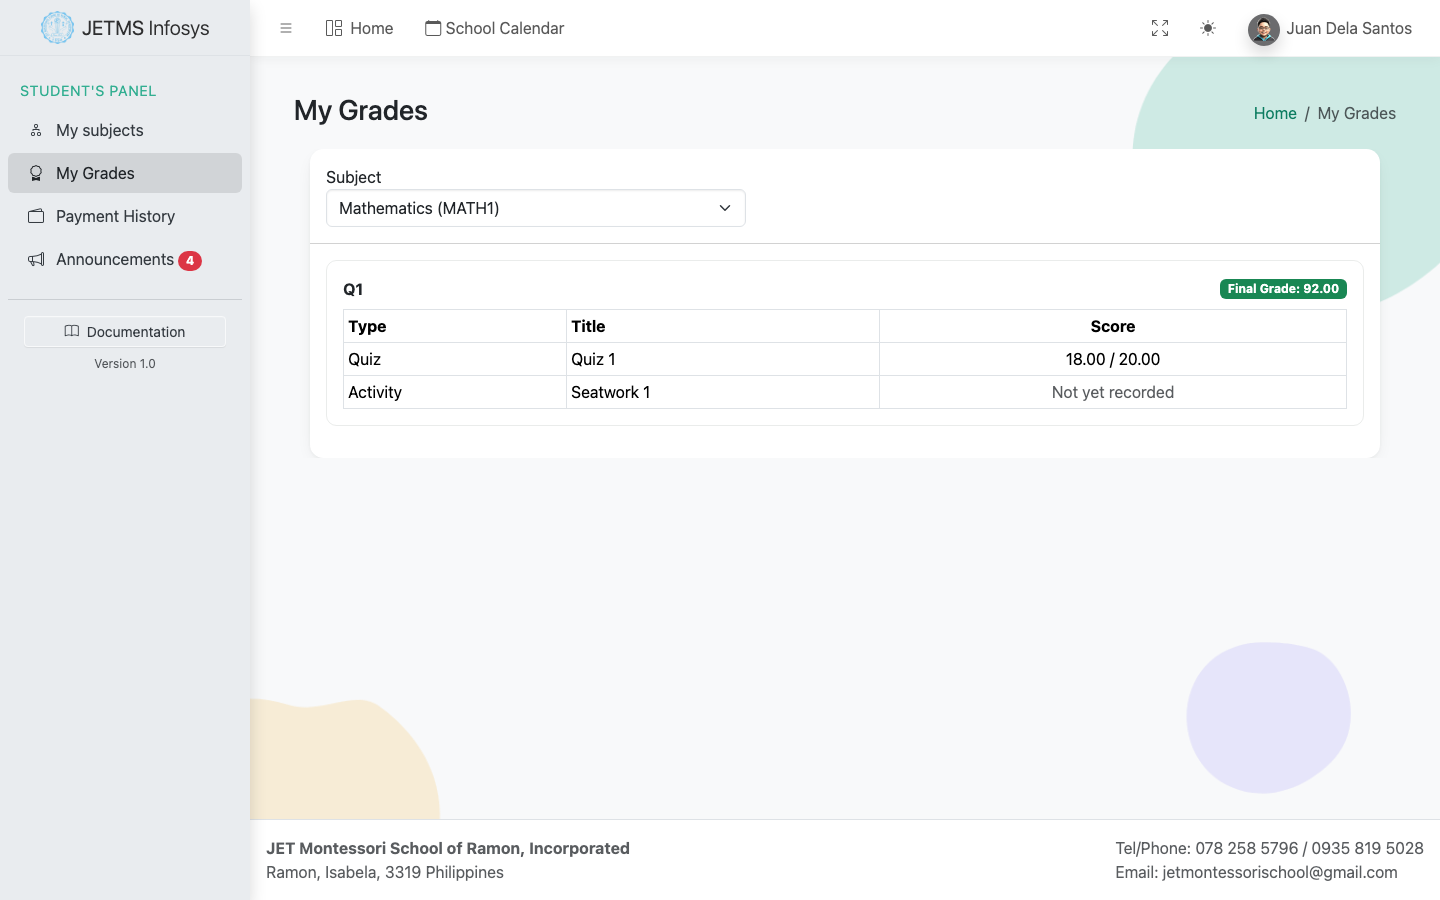
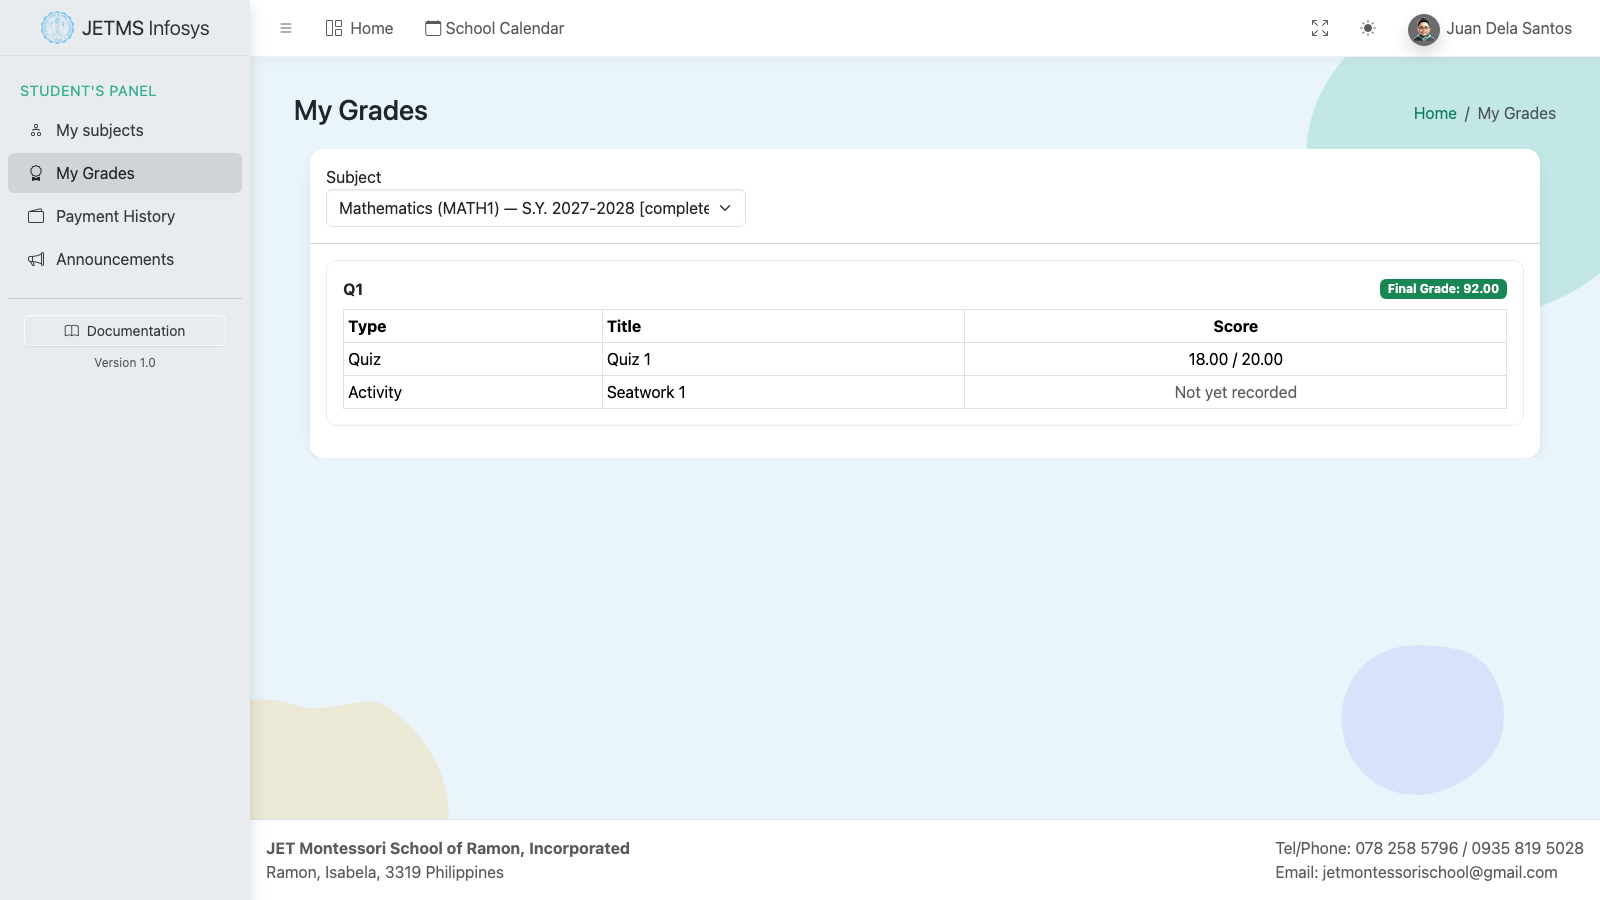
Final Test

diff --git a/docs/introduction.html b/docs/introduction.html
@@ -415,6 +415,7 @@
     <ul>
       <li>Cancel and the cell reverts; confirm with a reason and it saves, with the old value, new value, reason, and editor all logged internally.</li>
       <li>Removing a component (the × on its chip) hides it and its scores without deleting the underlying data — a safety net, not a hard delete.</li>
+      <li>The roster includes every student who ever took this class, not just currently-enrolled ones — a small <strong>Completed</strong>/<strong>Dropped</strong>/<strong>Transferred</strong> badge next to a name means that student's own enrollment has since ended, but their scores for this class stay visible and editable here.</li>
     </ul>
 
     <h2 id="announcements-teacher">Announcements</h2>
@@ -426,16 +427,16 @@
     <h2 id="my-subjects">My Subjects</h2>
     <p><strong>Where:</strong> left sidebar → <strong>My subjects</strong>.</p>
     <img class="doc-shot" src="manual/student_my_subjects.png" alt="My Subjects">
-    <p>One card per subject the student is currently enrolled in. Each shows the section, school year, and either the assigned teacher's name or <strong>"Teacher not yet assigned"</strong> if Admin hasn't set up that Assignment yet. Subjects with a teacher get a <strong>View Grades</strong> shortcut straight into the next screen, pre-selected.</p>
+    <p>One card per subject the student has ever been enrolled in — <strong>not just the current year</strong>. Each shows a status badge (green <strong>Current</strong> for the active enrollment, or <strong>Completed</strong> / <strong>Dropped</strong> / <strong>Transferred</strong> for past ones), the section, school year, and either the assigned teacher's name or <strong>"Teacher not yet assigned"</strong> if Admin hasn't set up that Assignment yet. Subjects with a teacher get a <strong>View Grades</strong> shortcut straight into the next screen, pre-selected. Current-year subjects list first, then past years newest-first.</p>
 
     <h2 id="my-grades">My Grades</h2>
     <p><strong>Where:</strong> left sidebar → <strong>My Grades</strong>.</p>
     <img class="doc-shot" src="manual/student_my_grades.png" alt="My Grades">
     <ol>
-      <li>Pick a subject from the dropdown (only subjects with an assigned teacher/class appear here).</li>
+      <li>Pick a subject from the dropdown (only subjects with an assigned teacher/class appear here). Since a student can have the same subject across multiple years, each option is labeled with its school year and status, e.g. "Mathematics (MATH1) — S.Y. 2027-2028 [completed]".</li>
       <li>One panel per quarter that has any activity — a <strong>Final Grade</strong> badge (green with the number once released, gray "Not yet released" until then), and a table of every quiz/activity/exam for that quarter with its score, or "Not yet recorded" if the teacher hasn't graded it yet.</li>
     </ol>
-    <div class="doc-note">Everything here is read-only and scoped to the logged-in student's own account — verified that a crafted request for someone else's class is rejected server-side, not just hidden in the UI.</div>
+    <div class="doc-note">Everything here is read-only and scoped to the logged-in student's own account — verified that a crafted request for someone else's class is rejected server-side, not just hidden in the UI. <strong>Grades from a completed, dropped, or transferred school year stay fully accessible</strong> — activating a new school year does not lock a student out of their own history. The Teacher's gradebook roster works the same way: it still shows students from years the class was actually taught, each tagged with their status, instead of going empty once that year ends.</div>
 
     <h2 id="payment-history">Payment History</h2>
     <p><strong>Where:</strong> left sidebar → <strong>Payment History</strong>.</p>

diff --git a/jsfile/student_subjects.js b/jsfile/student_subjects.js
@@ -15,6 +15,13 @@ $(document).ready(function () {
                 return;
             }
 
+            const statusBadge = {
+                enrolled: '<span class="badge bg-success">Current</span>',
+                dropped: '<span class="badge bg-danger">Dropped</span>',
+                transferred: '<span class="badge bg-warning">Transferred</span>',
+                completed: '<span class="badge bg-secondary">Completed</span>'
+            };
+
             let html = '';
             subjects.forEach(function (s) {
                 const teacherLine = s.teacher_name
@@ -27,10 +34,15 @@ $(document).ready(function () {
                        </button>`
                     : '';
 
+                const badge = statusBadge[s.enrollment_status] || '';
+
                 html += `
                     <div class="col-md-4">
                         <div class="subpanel p-3 h-100">
-                            <div class="fw-bold">${s.subject_name}${s.subject_code ? ` <span class="text-muted small">(${s.subject_code})</span>` : ''}</div>
+                            <div class="d-flex justify-content-between align-items-start">
+                                <div class="fw-bold">${s.subject_name}${s.subject_code ? ` <span class="text-muted small">(${s.subject_code})</span>` : ''}</div>
+                                ${badge}
+                            </div>
                             <div class="text-muted small">${s.section_name} &middot; S.Y. ${s.schoolyear_name}</div>
                             ${teacherLine}
                             ${gradesBtn}

diff --git a/jsfile/teacher_classes.js b/jsfile/teacher_classes.js
@@ -113,9 +113,16 @@ $(document).ready(function () {
             return;
         }
 
+        const statusBadge = {
+            dropped: '<span class="badge bg-danger ms-1" style="font-size:0.65rem;">Dropped</span>',
+            transferred: '<span class="badge bg-warning ms-1" style="font-size:0.65rem;">Transferred</span>',
+            completed: '<span class="badge bg-secondary ms-1" style="font-size:0.65rem;">Completed</span>'
+        };
+
         let body = '';
         roster.forEach(function (student) {
-            body += `<tr><td>${student.last_name}, ${student.first_name}</td>`;
+            const badge = statusBadge[student.enrollment_status] || '';
+            body += `<tr><td>${student.last_name}, ${student.first_name}${badge}</td>`;
             components.forEach(function (c) {
                 const val = student.scores && student.scores[c.component_id] !== null && student.scores[c.component_id] !== undefined ? student.scores[c.component_id] : '';
                 body += `<td><input type="number" class="form-control form-control-sm gradebook-score-input" style="width:80px;" min="0" max="${c.max_score}" step="0.01"

diff --git a/jsfile/student_grades.js b/jsfile/student_grades.js
@@ -73,7 +73,8 @@ $(document).ready(function () {
             const subjects = (res.data || []).filter(function (s) { return s.class_id; });
             let options = '<option value="">-- Select a Subject --</option>';
             subjects.forEach(function (s) {
-                options += `<option value="${s.class_id}">${s.subject_name}${s.subject_code ? ' (' + s.subject_code + ')' : ''}</option>`;
+                const label = `${s.subject_name}${s.subject_code ? ' (' + s.subject_code + ')' : ''} — S.Y. ${s.schoolyear_name}${s.enrollment_status !== 'enrolled' ? ' [' + s.enrollment_status + ']' : ''}`;
+                options += `<option value="${s.class_id}">${label}</option>`;
             });
             $('#grades_subject_select').html(options);
 

diff --git a/config/grading.php b/config/grading.php
@@ -135,12 +135,12 @@ switch ($action) {
         }
 
         $rosterStmt = mysqli_prepare($conn, "
-            SELECT s.student_id, s.lrn, s.first_name, s.last_name
+            SELECT s.student_id, s.lrn, s.first_name, s.last_name, e.status AS enrollment_status
             FROM tbl_enrollment e
             JOIN tbl_student s ON s.student_id = e.student_id
             JOIN tbl_enrollment_subject es ON es.enrollment_id = e.enrollment_id
-            WHERE e.section_id = ? AND e.schoolyear_id = ? AND e.status = 'enrolled' AND es.subject_id = ?
-            ORDER BY s.last_name ASC, s.first_name ASC
+            WHERE e.section_id = ? AND e.schoolyear_id = ? AND es.subject_id = ?
+            ORDER BY FIELD(e.status, 'enrolled', 'dropped', 'transferred', 'completed'), s.last_name ASC, s.first_name ASC
         ");
         mysqli_stmt_bind_param($rosterStmt, "iii", $classRow['section_id'], $classRow['schoolyear_id'], $classRow['subject_id']);
         mysqli_stmt_execute($rosterStmt);
@@ -332,7 +332,10 @@ switch ($action) {
     }
 
     // =======================
-    // STUDENT_SUBJECTS (session-scoped — this student's current subjects + assigned teacher)
+    // STUDENT_SUBJECTS (session-scoped — every subject this student has ever
+    // had, across every enrollment/school year, not just the currently
+    // 'enrolled' one — otherwise a completed/dropped year's subjects and
+    // grades become permanently unreachable once that year ends)
     // =======================
     case 'student_subjects': {
         if (!isset($_SESSION['auth']) || $_SESSION['auth']['role'] !== 'student') {
@@ -343,13 +346,13 @@ switch ($action) {
 
         $stmt = mysqli_prepare($conn, "
             SELECT es.subject_id, es.subject_name, es.subject_code,
-                   e.section_name, e.schoolyear_name,
+                   e.section_name, e.schoolyear_name, e.status AS enrollment_status,
                    c.class_id, c.teacher_name
             FROM tbl_enrollment e
             JOIN tbl_enrollment_subject es ON es.enrollment_id = e.enrollment_id
             LEFT JOIN tbl_class c ON c.section_id = e.section_id AND c.schoolyear_id = e.schoolyear_id AND c.subject_id = es.subject_id AND c.class_remarks = 1
-            WHERE e.student_id = ? AND e.status = 'enrolled'
-            ORDER BY es.subject_name ASC
+            WHERE e.student_id = ?
+            ORDER BY FIELD(e.status, 'enrolled', 'dropped', 'transferred', 'completed'), e.schoolyear_name DESC, es.subject_name ASC
         ");
         mysqli_stmt_bind_param($stmt, "i", $student_id);
         mysqli_stmt_execute($stmt);
@@ -376,12 +379,14 @@ switch ($action) {
         $student_id = $_SESSION['auth']['id'];
         $class_id = isset($_POST['class_id']) ? (int) $_POST['class_id'] : 0;
 
-        // Confirm this class actually corresponds to one of the student's own enrolled subjects
+        // Confirm this class corresponds to one of the student's own subjects —
+        // any enrollment status counts (not just 'enrolled'), so grades from a
+        // completed/dropped/transferred school year stay reachable
         $ownStmt = mysqli_prepare($conn, "
             SELECT c.class_id FROM tbl_class c
             JOIN tbl_enrollment e ON e.section_id = c.section_id AND e.schoolyear_id = c.schoolyear_id
             JOIN tbl_enrollment_subject es ON es.enrollment_id = e.enrollment_id AND es.subject_id = c.subject_id
-            WHERE c.class_id = ? AND e.student_id = ? AND e.status = 'enrolled'
+            WHERE c.class_id = ? AND e.student_id = ?
             LIMIT 1
         ");
         mysqli_stmt_bind_param($ownStmt, "ii", $class_id, $student_id);

diff --git a/config/assignment.php b/config/assignment.php
@@ -234,12 +234,12 @@ switch ($action) {
         }
 
         $stmt = mysqli_prepare($conn, "
-            SELECT s.student_id, s.lrn, s.first_name, s.last_name, e.enrollment_id
+            SELECT s.student_id, s.lrn, s.first_name, s.last_name, e.enrollment_id, e.status AS enrollment_status
             FROM tbl_enrollment e
             JOIN tbl_student s ON s.student_id = e.student_id
             JOIN tbl_enrollment_subject es ON es.enrollment_id = e.enrollment_id
-            WHERE e.section_id = ? AND e.schoolyear_id = ? AND e.status = 'enrolled' AND es.subject_id = ?
-            ORDER BY s.last_name ASC, s.first_name ASC
+            WHERE e.section_id = ? AND e.schoolyear_id = ? AND es.subject_id = ?
+            ORDER BY FIELD(e.status, 'enrolled', 'dropped', 'transferred', 'completed'), s.last_name ASC, s.first_name ASC
         ");
         mysqli_stmt_bind_param($stmt, "iii", $classRow['section_id'], $classRow['schoolyear_id'], $classRow['subject_id']);
         mysqli_stmt_execute($stmt);

diff --git a/USER_MANUAL.md b/USER_MANUAL.md
@@ -295,6 +295,7 @@ Every class this teacher is assigned to (see Assignments above), with a live stu
 
     Cancel and the cell reverts to its previous value; confirm with a reason and it saves, with the old value, new value, reason, and who made the change all logged internally.
   - Removing a component (the × on its chip) hides it and its scores without deleting the underlying data — a safety net, not a hard delete.
+  - The roster includes every student who ever took this class, not just currently-enrolled ones — a small **Completed**/**Dropped**/**Transferred** badge next to a name means that student's own enrollment has since ended, but their scores for this class stay visible and editable here.
 
 ## Announcements
 
@@ -312,7 +313,7 @@ Every class this teacher is assigned to (see Assignments above), with a live stu
 
 ![My Subjects](docs/manual/student_my_subjects.png)
 
-One card per subject the student is currently enrolled in. Each shows the section, school year, and either the assigned teacher's name or **"Teacher not yet assigned"** if Admin hasn't set up that Assignment yet (see Settings → Assignments above — until that happens, there's simply nothing to grade). Subjects with a teacher get a **View Grades** shortcut straight into the next screen, pre-selected.
+One card per subject the student has ever been enrolled in — **not just the current year**. Each shows a status badge (green **Current** for the active enrollment, or **Completed** / **Dropped** / **Transferred** for past ones), the section, school year, and either the assigned teacher's name or **"Teacher not yet assigned"** if Admin hasn't set up that Assignment yet (see Settings → Assignments above — until that happens, there's simply nothing to grade). Subjects with a teacher get a **View Grades** shortcut straight into the next screen, pre-selected. Current-year subjects are listed first, then past years newest-first.
 
 ## My Grades
 
@@ -320,10 +321,12 @@ One card per subject the student is currently enrolled in. Each shows the sectio
 
 ![My Grades](docs/manual/student_my_grades.png)
 
-1. Pick a subject from the dropdown (only subjects with an assigned teacher/class appear here).
+1. Pick a subject from the dropdown (only subjects with an assigned teacher/class appear here). Since a student can have the same subject across multiple years, each option is labeled with its school year and status, e.g. "Mathematics (MATH1) — S.Y. 2027-2028 [completed]".
 2. One panel per quarter that has any activity — a **Final Grade** badge (green with the number once released, gray "Not yet released" until then), and a table of every quiz/activity/exam for that quarter with its score, or "Not yet recorded" if the teacher hasn't graded it yet.
 
 Everything here is read-only and scoped to the logged-in student's own account — verified that a crafted request for someone else's class is rejected server-side, not just hidden in the UI.
+
+**Grades from a completed, dropped, or transferred school year stay fully accessible** — activating a new school year (which auto-completes everyone still enrolled in the old one) does not lock a student out of their own history. This applies on the Teacher side too: a class's gradebook roster still shows students from years the class was actually taught, each tagged with their status, instead of the roster going empty once that year ends.
 
 ## Payment History
 
